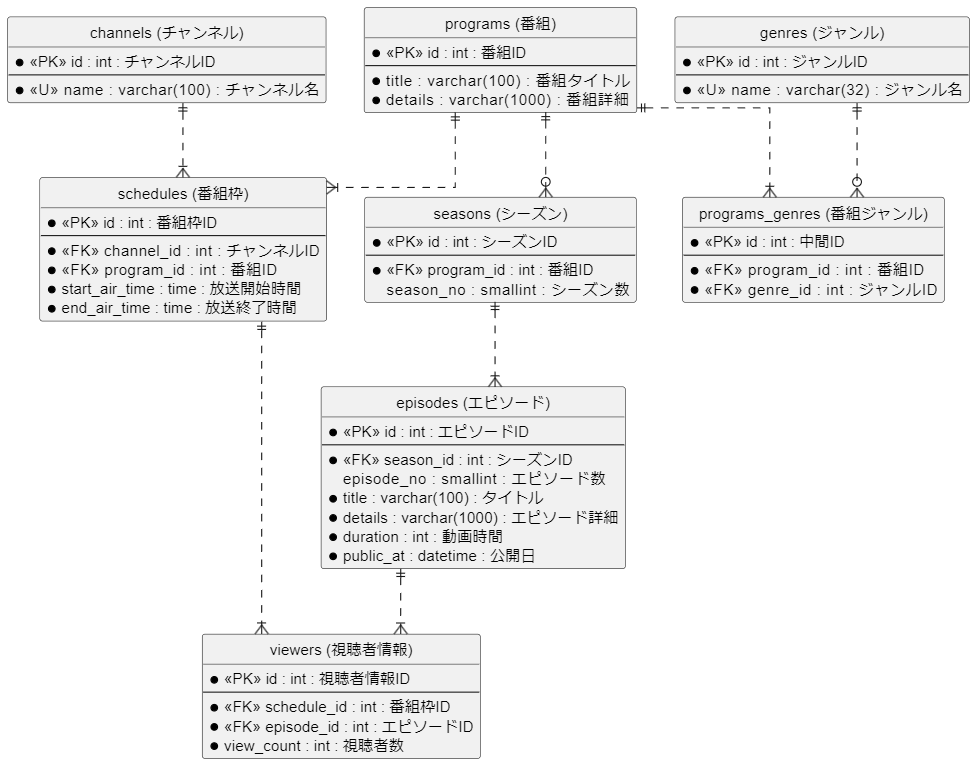
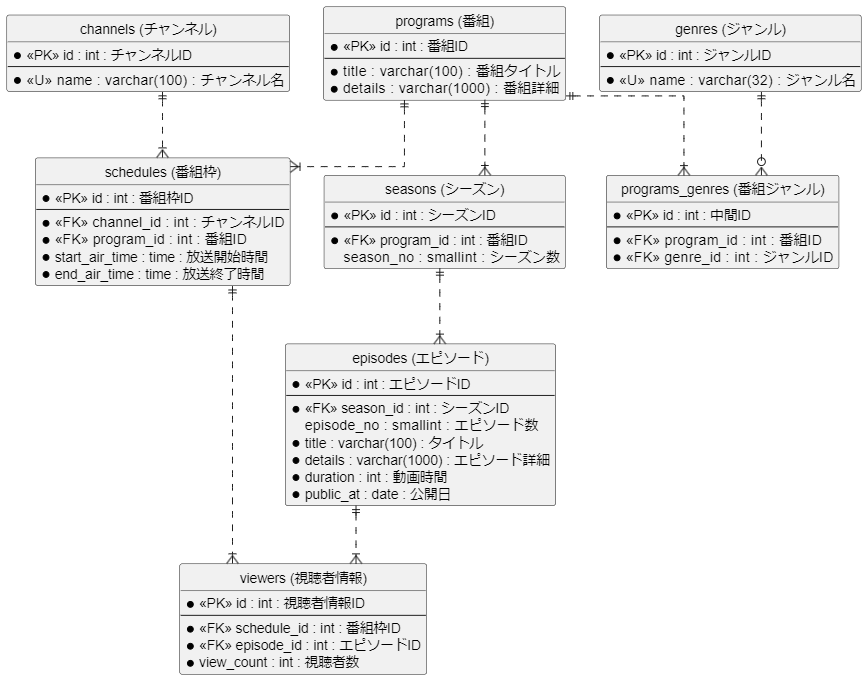
Fix data type

diff --git a/step1.md b/step1.md
@@ -61,7 +61,7 @@
 |title|varchar(100)|||||
 |details|varchar(1000)|||||
 |duration|int|||||
-|public_at|datetime||||
+|public_at|date||||
 
 - 外部キー制約：season_id に対して、seasons テーブルの id カラムから設定
 
